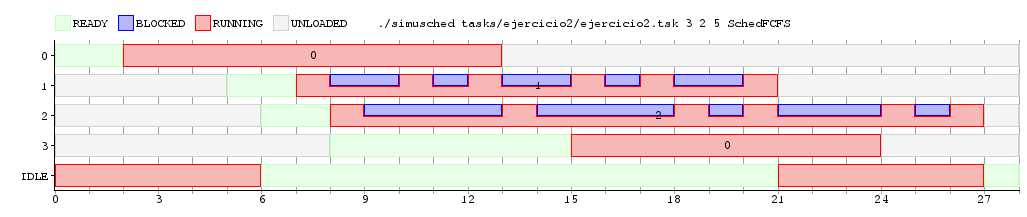
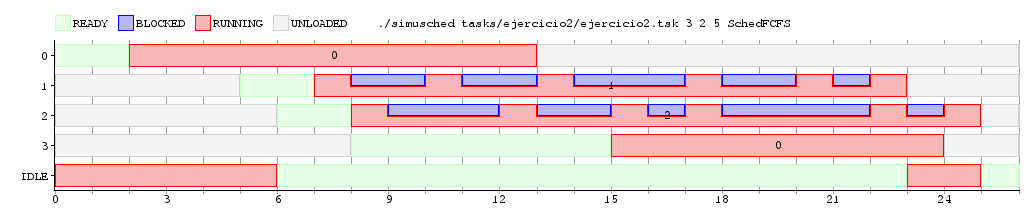
Fije la semilla y agregue los nuevas imagenes

diff --git a/TPs/TP1/simusched/tasks.cpp b/TPs/TP1/simusched/tasks.cpp
@@ -26,10 +26,7 @@ void TaskConsola(int pid, vector<int> params) { // params: n, bmin, bmax
 	int bmin = params[1];
 	int bmax = params[2];
 
-	struct timespec ts;
-	clock_gettime(CLOCK_MONOTONIC, &ts);
-
-	srand((time_t)ts.tv_nsec);
+	srand(1000);
 
 	for(int i = 0; i < n; i++) {
 		uso_IO(pid, bmin + rand() % (bmax - bmin + 1));
